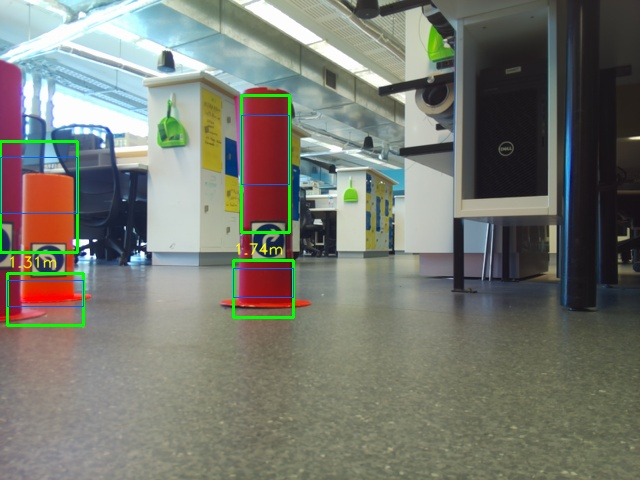
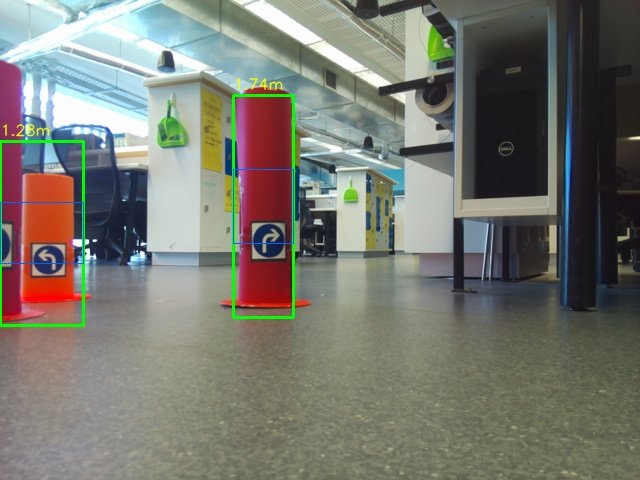
Fix cylinder detection: merge stacked boxes and crop sign from gap region

Changed region(s): [[0.3438, 0.1562, 0.4688, 0.625], [0.0, 0.2812, 0.1562, 0.6875], [0.0, 0.25, 0.0938, 0.2812]]

diff --git a/task3/detect.py b/task3/detect.py
@@ -7,8 +7,9 @@ Workflow:
      catch orange that wraps around hue=0 in OpenCV's 0-179 scale).
   3. Morphologically clean the mask, then find contours.
   4. Filter contours by area and aspect ratio to keep likely cylinders.
-  5. Return axis-aligned bounding boxes and corresponding sign crops
-     (middle portion of each box, where the traffic sign lives).
+  5. Merge vertically stacked boxes that belong to the same cylinder — the
+     sign (non-orange) splits each cylinder into an upper and lower blob.
+  6. The sign crop is the gap region between the two merged sub-boxes.
 """
 
 import cv2
@@ -30,10 +31,12 @@ MAX_AREA   = 80_000 # px² — discard full-frame blobs
 MIN_ASPECT = 0.15   # width/height — very wide blobs are probably not cylinders
 MAX_ASPECT = 2.5    # width/height — also discard very wide blobs
 
-# Sign is mounted roughly in the middle third of the cylinder bounding box
-SIGN_START    = 0.15   # crop starts this fraction down from the top of the box
-SIGN_END      = 0.65   # crop ends this fraction down from the top of the box
-SIGN_MIN_PX   = 20     # skip sign crops smaller than this in either dimension
+# Merging: two boxes are the same cylinder if their horizontal centres are
+# within this many pixels of each other and they are vertically close/touching.
+MERGE_X_TOL   = 60    # px — max horizontal centre distance to consider same cylinder
+MERGE_Y_GAP   = 80    # px — max vertical gap between boxes to attempt merge
+
+SIGN_MIN_PX   = 20    # skip sign crops smaller than this in either dimension
 
 
 def detect_cylinders(image: np.ndarray,
@@ -77,32 +80,95 @@ def detect_cylinders(image: np.ndarray,
     contours, _ = cv2.findContours(mask, cv2.RETR_EXTERNAL,
                                    cv2.CHAIN_APPROX_SIMPLE)
 
-    boxes      : list[tuple[int,int,int,int]] = []
-    sign_crops : list[np.ndarray]             = []
+    raw_boxes : list[tuple[int,int,int,int]] = []
 
     for cnt in contours:
         area = cv2.contourArea(cnt)
         if not (MIN_AREA <= area <= MAX_AREA):
             continue
-
         x, y, w, h = cv2.boundingRect(cnt)
         aspect = w / max(h, 1)
         if not (MIN_ASPECT <= aspect <= MAX_ASPECT):
             continue
+        raw_boxes.append((x, y, w, h))
 
-        boxes.append((x, y, w, h))
+    # ── Merge vertically stacked boxes from the same cylinder ────────────────
+    # The sign (non-orange) splits each cylinder into an upper and lower blob.
+    # We group boxes by horizontal proximity then merge each group into one
+    # combined box; the sign crop is the gap between the sub-boxes.
+    merged_boxes, sign_crops = _merge_boxes(image, raw_boxes)
+    return merged_boxes, sign_crops
 
-        # ── Sign crop — middle section of the bounding box ───────────────────
-        sign_y0 = y + int(h * SIGN_START)
-        sign_y1 = y + int(h * SIGN_END)
-        crop    = image[sign_y0 : sign_y1, x : x + w]
-        if crop.shape[0] >= SIGN_MIN_PX and crop.shape[1] >= SIGN_MIN_PX:
-            sign_crops.append(crop)
+
+def _merge_boxes(image: np.ndarray,
+                 boxes: list[tuple[int,int,int,int]]
+                 ) -> tuple[list[tuple[int,int,int,int]], list[np.ndarray]]:
+    """
+    Group raw boxes into cylinders by horizontal proximity, merge each group
+    into one spanning box, and extract the sign crop from the gap between the
+    upper and lower sub-boxes.
+
+    For a single unmerged box (no partner found) the sign crop falls back to
+    the middle third of the box.
+    """
+    if not boxes:
+        return [], []
+
+    used   = [False] * len(boxes)
+    merged : list[tuple[int,int,int,int]] = []
+    crops  : list[np.ndarray]             = []
+
+    # Sort top-to-bottom so the first box in each group is always the upper one
+    boxes = sorted(boxes, key=lambda b: b[1])
+
+    for i, (xi, yi, wi, hi) in enumerate(boxes):
+        if used[i]:
+            continue
+        cx_i = xi + wi // 2
+
+        # Find the best partner: same horizontal column, directly below, close
+        best_j   = -1
+        best_gap = MERGE_Y_GAP + 1
+
+        for j, (xj, yj, wj, hj) in enumerate(boxes):
+            if j <= i or used[j]:
+                continue
+            cx_j = xj + wj // 2
+            if abs(cx_i - cx_j) > MERGE_X_TOL:
+                continue          # different column
+            gap = yj - (yi + hi)  # vertical gap between bottom of i and top of j
+            if 0 <= gap <= MERGE_Y_GAP and gap < best_gap:
+                best_gap = gap
+                best_j   = j
+
+        if best_j >= 0:
+            # ── Merge the two boxes ──────────────────────────────────────────
+            xj, yj, wj, hj = boxes[best_j]
+            mx = min(xi, xj)
+            my = yi
+            mw = max(xi + wi, xj + wj) - mx
+            mh = (yj + hj) - yi
+            merged.append((mx, my, mw, mh))
+            used[i] = used[best_j] = True
+
+            # Sign crop = the gap between bottom of upper box and top of lower
+            gap_y0 = yi + hi
+            gap_y1 = yj
+            crop   = image[gap_y0:gap_y1, mx:mx + mw]
         else:
-            sign_crops.append(np.zeros((SIGN_MIN_PX, SIGN_MIN_PX, 3),
-                                       dtype=np.uint8))
+            # ── No partner — use middle third of the single box ──────────────
+            merged.append((xi, yi, wi, hi))
+            used[i] = True
+            gap_y0  = yi + hi // 3
+            gap_y1  = yi + (2 * hi) // 3
+            crop    = image[gap_y0:gap_y1, xi:xi + wi]
 
-    return boxes, sign_crops
+        if crop.shape[0] >= SIGN_MIN_PX and crop.shape[1] >= SIGN_MIN_PX:
+            crops.append(crop)
+        else:
+            crops.append(np.zeros((SIGN_MIN_PX, SIGN_MIN_PX, 3), dtype=np.uint8))
+
+    return merged, crops
 
 
 def draw_detections(image:  np.ndarray,
@@ -127,9 +193,9 @@ def draw_detections(image:  np.ndarray,
         # Cylinder box — green
         cv2.rectangle(vis, (x, y), (x + w, y + h), (0, 255, 0), 2)
 
-        # Sign region indicator — blue
-        sign_y0 = y + int(h * SIGN_START)
-        sign_y1 = y + int(h * SIGN_END)
+        # Sign region indicator — blue (middle third of merged box)
+        sign_y0 = y + h // 3
+        sign_y1 = y + (2 * h) // 3
         cv2.rectangle(vis, (x, sign_y0), (x + w, sign_y1), (255, 100, 0), 1)
 
         # Annotation text

diff --git a/task3/debug_crops.py b/task3/debug_crops.py
@@ -1,0 +1,67 @@
+"""
+debug_crops.py — saves side-by-side images showing the full cylinder bounding
+box alongside the current sign crop, so you can visually determine the correct
+SIGN_START / SIGN_END values in detect.py.
+"""
+import sys
+from pathlib import Path
+sys.path.insert(0, str(Path(__file__).parent))
+
+import cv2
+import numpy as np
+from calibration import K, dist
+from detect import detect_cylinders
+
+IMG_DIR = Path.home() / "extracted_data/extracted/traffic_signs_multiple_2/images/images"
+OUT_DIR = Path(__file__).parent / "output" / "debug_crops"
+OUT_DIR.mkdir(parents=True, exist_ok=True)
+
+imgs   = sorted(IMG_DIR.glob("*.png"))
+# Sample every 10th image across the sequence
+sample = imgs[::10][:20]
+
+saved = 0
+for img_path in sample:
+    image = cv2.imread(str(img_path))
+    if image is None:
+        continue
+
+    boxes, crops = detect_cylinders(image, K, dist)
+
+    for j, (box, crop) in enumerate(zip(boxes, crops)):
+        x, y, w, h = box
+
+        # Full cylinder crop with crop region marked
+        full = image[y:y+h, x:x+w].copy()
+        # Show the middle-third region (where gap crop lands for merged boxes)
+        y0 = h // 3
+        y1 = (2 * h) // 3
+        cv2.rectangle(full, (0, y0), (w-1, y1), (0, 255, 0), 2)
+        cv2.putText(full, "sign region",
+                    (4, y0 - 4), cv2.FONT_HERSHEY_SIMPLEX, 0.5, (0,255,0), 1)
+
+        # Resize both to same height for side-by-side
+        target_h = 200
+        def resize_h(img, th):
+            if img.shape[0] == 0 or img.shape[1] == 0:
+                return np.zeros((th, th, 3), dtype=np.uint8)
+            scale = th / img.shape[0]
+            return cv2.resize(img, (max(1, int(img.shape[1]*scale)), th))
+
+        left  = resize_h(full, target_h)
+        right = resize_h(crop, target_h)
+
+        # Label them
+        cv2.putText(left,  "FULL BOX (green=crop region)",
+                    (4, 16), cv2.FONT_HERSHEY_SIMPLEX, 0.4, (0,255,255), 1)
+        cv2.putText(right, "CURRENT CROP (sent to model)",
+                    (4, 16), cv2.FONT_HERSHEY_SIMPLEX, 0.4, (0,255,255), 1)
+
+        combined = np.hstack([left, np.ones((target_h, 4, 3), dtype=np.uint8)*128, right])
+        out_path = OUT_DIR / f"{img_path.stem}_cyl{j}.jpg"
+        cv2.imwrite(str(out_path), combined)
+        saved += 1
+
+print(f"Saved {saved} debug images to {OUT_DIR.resolve()}")
+print("Right panel = sign crop sent to model. Left panel = full merged box with region marked.")
+print("If crops look wrong, adjust MERGE_X_TOL / MERGE_Y_GAP in detect.py.")
